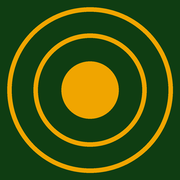
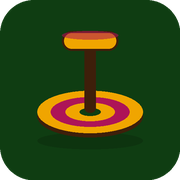
Updates

diff --git a/sw.js b/sw.js
@@ -1,1 +1,1 @@
-if(!self.define){let e,i={};const n=(n,s)=>(n=new URL(n+".js",s).href,i[n]||new Promise(i=>{if("document"in self){const e=document.createElement("script");e.src=n,e.onload=i,document.head.appendChild(e)}else e=n,importScripts(n),i()}).then(()=>{let e=i[n];if(!e)throw new Error(`Module ${n} didn’t register its module`);return e}));self.define=(s,r)=>{const c=e||("document"in self?document.currentScript.src:"")||location.href;if(i[c])return;let o={};const a=e=>n(e,c),f={module:{uri:c},exports:o,require:a};i[c]=Promise.all(s.map(e=>f[e]||a(e))).then(e=>(r(...e),o))}}define(["./workbox-9c191d2f"],function(e){"use strict";self.skipWaiting(),e.clientsClaim(),e.precacheAndRoute([{url:"registerSW.js",revision:"3657615490fc0a4a7073586387c618ee"},{url:"index.html",revision:"bc5aebcb61fab46f311ec407541a50cf"},{url:"icons.svg",revision:"3b4fcfcf393eca4d264dca4a4663bc37"},{url:"icon-512.png",revision:"e34365971dc68a51e356aac6869ac905"},{url:"icon-192.png",revision:"083f8e6dbf5f2b16249fac841aa5583e"},{url:"favicon.svg",revision:"7e840862161341271697daa99a40d76b"},{url:"apple-touch-icon.png",revision:"ebdb3aa74da18cf33421756f9b18bb16"},{url:"assets/index-DnA7C1Ln.css",revision:null},{url:"assets/index-DaS4q74H.js",revision:null},{url:"favicon.svg",revision:"7e840862161341271697daa99a40d76b"},{url:"icon-192.png",revision:"083f8e6dbf5f2b16249fac841aa5583e"},{url:"icon-512.png",revision:"e34365971dc68a51e356aac6869ac905"},{url:"manifest.webmanifest",revision:"110579c8e8c239f6bcf6576d3eaf1492"}],{}),e.cleanupOutdatedCaches(),e.registerRoute(new e.NavigationRoute(e.createHandlerBoundToURL("index.html")))});
+if(!self.define){let e,i={};const n=(n,s)=>(n=new URL(n+".js",s).href,i[n]||new Promise(i=>{if("document"in self){const e=document.createElement("script");e.src=n,e.onload=i,document.head.appendChild(e)}else e=n,importScripts(n),i()}).then(()=>{let e=i[n];if(!e)throw new Error(`Module ${n} didn’t register its module`);return e}));self.define=(s,r)=>{const c=e||("document"in self?document.currentScript.src:"")||location.href;if(i[c])return;let o={};const f=e=>n(e,c),a={module:{uri:c},exports:o,require:f};i[c]=Promise.all(s.map(e=>a[e]||f(e))).then(e=>(r(...e),o))}}define(["./workbox-9c191d2f"],function(e){"use strict";self.skipWaiting(),e.clientsClaim(),e.precacheAndRoute([{url:"registerSW.js",revision:"3657615490fc0a4a7073586387c618ee"},{url:"index.html",revision:"bc5aebcb61fab46f311ec407541a50cf"},{url:"icons.svg",revision:"3b4fcfcf393eca4d264dca4a4663bc37"},{url:"icon-512.png",revision:"76f4a3d1b8ebb256f45e6c67a028eea4"},{url:"icon-192.png",revision:"f1d6a904c0565c9f0f9f51aa3b897445"},{url:"favicon.svg",revision:"7e840862161341271697daa99a40d76b"},{url:"apple-touch-icon.png",revision:"42f35f87cc16a4ee891d16d41a9c914b"},{url:"assets/index-DnA7C1Ln.css",revision:null},{url:"assets/index-DaS4q74H.js",revision:null},{url:"favicon.svg",revision:"7e840862161341271697daa99a40d76b"},{url:"icon-192.png",revision:"f1d6a904c0565c9f0f9f51aa3b897445"},{url:"icon-512.png",revision:"76f4a3d1b8ebb256f45e6c67a028eea4"},{url:"manifest.webmanifest",revision:"110579c8e8c239f6bcf6576d3eaf1492"}],{}),e.cleanupOutdatedCaches(),e.registerRoute(new e.NavigationRoute(e.createHandlerBoundToURL("index.html")))});
